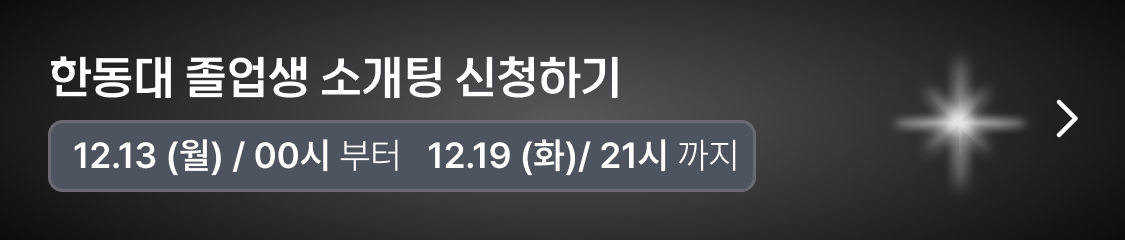
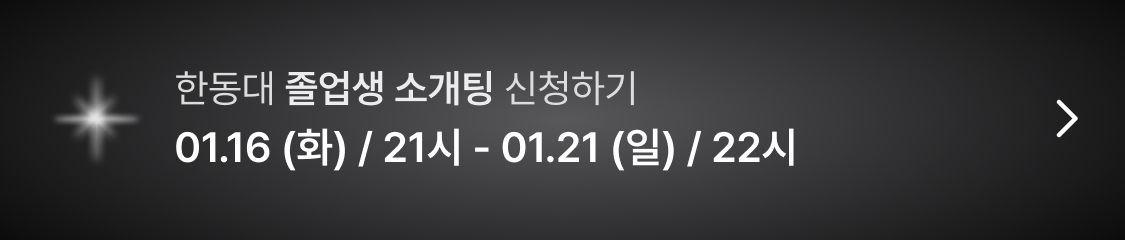
feat: 한대소 졸업생 시즌1 배너 추가

Changed region(s): [[0.0311, 0.2333, 0.7156, 0.8167], [0.7778, 0.2625, 0.9333, 0.7875]]

diff --git a/components/main-page/Card.vue b/components/main-page/Card.vue
@@ -11,7 +11,8 @@
       >
         <img
           class="banner-img banner-admin-tab-hanchelin"
-          src="@/assets/img/ads/admin-blind-date.png"
+          src="@/assets/img/ads/admin-blind-date-season2.png"
+          @click="$router.push('/g-blind-date/intro')"
         />
         <a
           class="banner-admin-insta"
